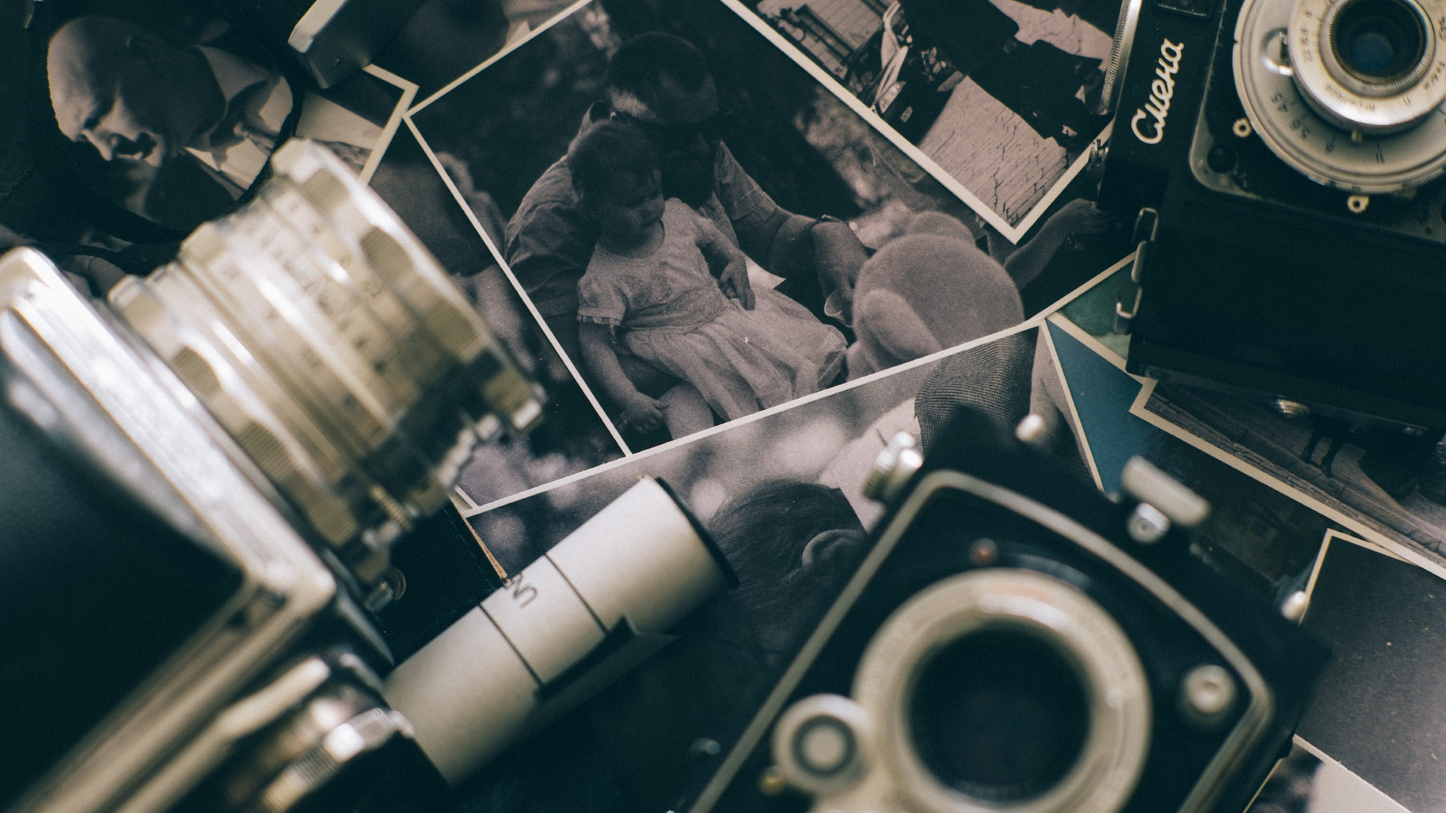
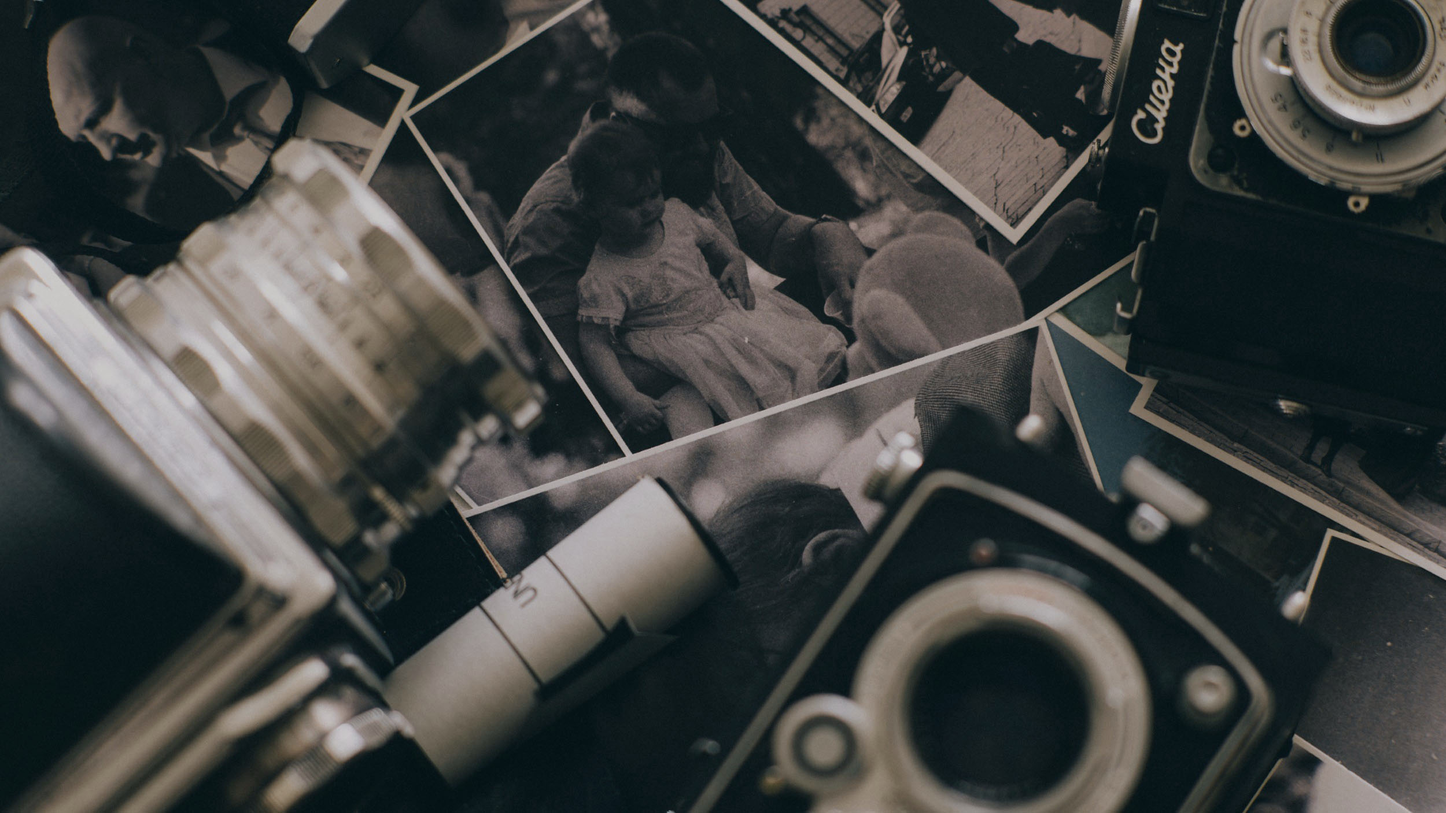
fix: adjust slideshow brightness for improved visual effect

diff --git a/src/components/HomeSection.tsx b/src/components/HomeSection.tsx
@@ -98,7 +98,7 @@ export function HomeSection({ t, reduceMotion }: HomeSectionProps) {
             className="absolute inset-0 w-full h-full object-cover opacity-80"
             style={{
               backgroundColor: '#000',
-              filter: 'brightness(0.55)',
+              filter: 'brightness(0.72)',
               willChange: 'opacity, transform',
               transformOrigin: 'center center',
               ...(currentSlide === 2 ? { objectPosition: '70% center' } : { objectPosition: 'center' }),
